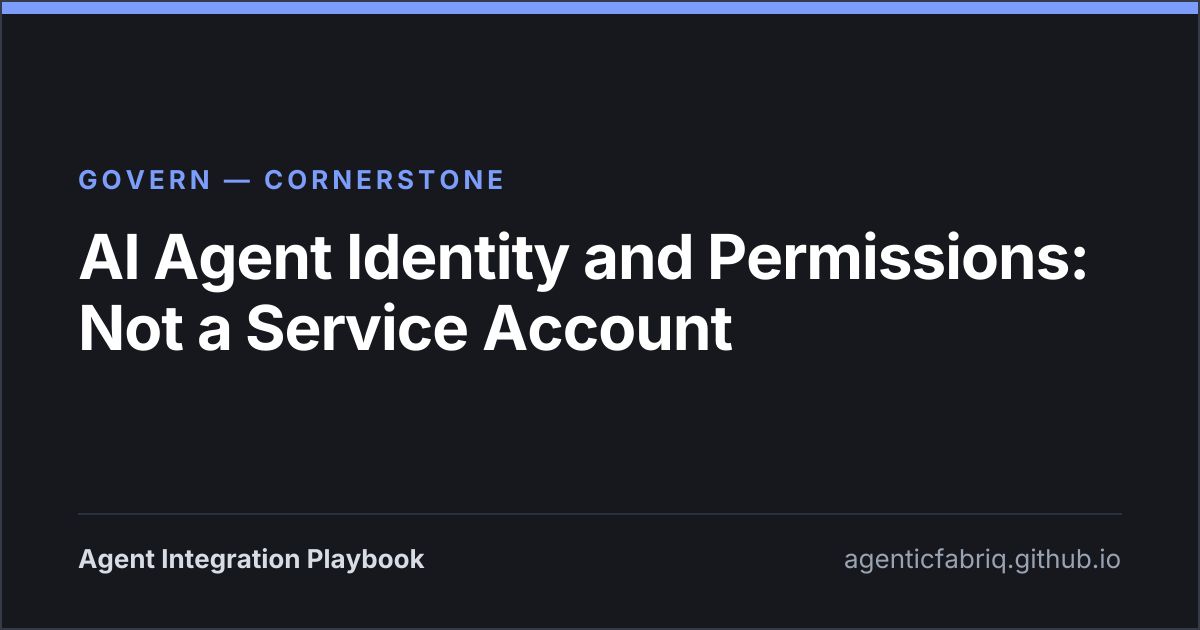
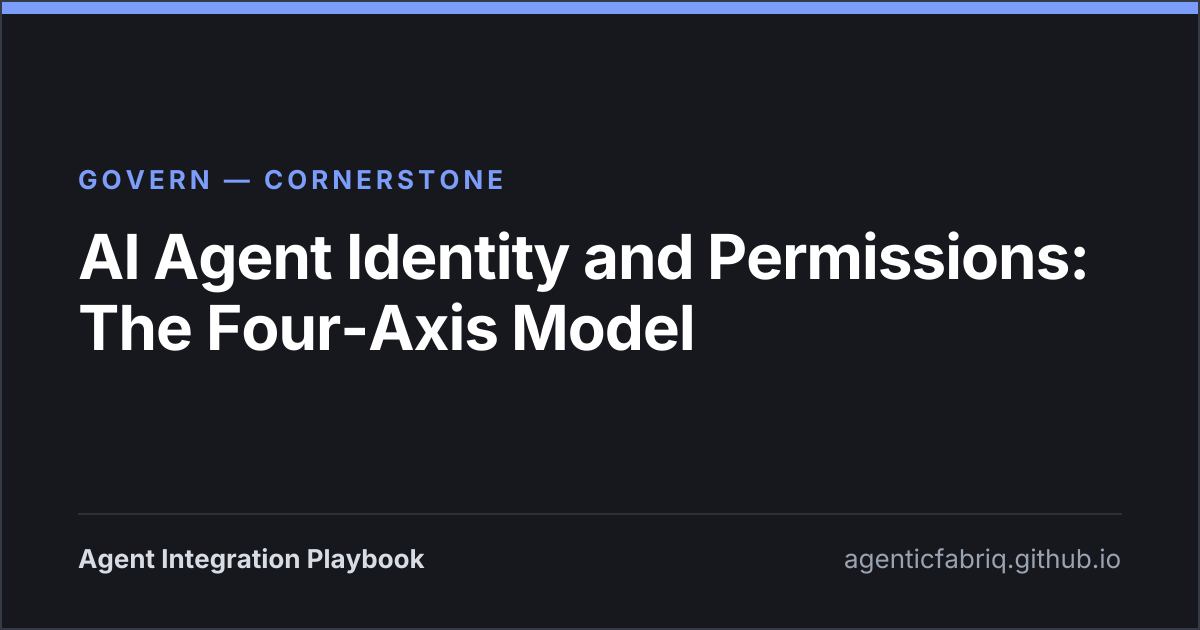
fix(seo): give the service-account comparison to /connect/ alone
Both cornerstones carried "Service Account" in the h1 and aimed at one intent:
/connect/ at 'ai agent service account vs user oauth', /govern/ at 'ai agent
identity vs service account'. The two research reports were written
independently and the collision check compared exact strings only.

/connect/ keeps it. It puts four named access patterns against one integration
and compares them on attribution, blast radius and cost, which is the
comparison the query asks for. /govern/ argues the comparison is a category
error and then spends the page on the agent x user x resource x action matrix,
call-time evaluation and revocation testing, so retarget it there. The
comparative framing stays in the body where it is the argument.

Changed region(s): [[0.0617, 0.4825, 0.6167, 0.573]]

diff --git a/README.md b/README.md
@@ -64,9 +64,9 @@ everywhere, rather than re-arguing them per provider.
 
 <!-- BEGIN GENERATED govern: edit src/content/guides/, then run `npm run readme` -->
 
-- [AI Agent Identity and Permissions: Not a Service Account](https://agenticfabriq.github.io/govern/) (cornerstone)
-  — Why an AI agent is neither a user nor a service account, how to model agent, user,
-  resource and action as a matrix, and how to test revocation.
+- [AI Agent Identity and Permissions: The Four-Axis Model](https://agenticfabriq.github.io/govern/) (cornerstone)
+  — An AI agent is its own kind of principal. Model it as agent, user, resource and action,
+  decide at call time, and prove revocation works one cell at a time.
 - [AI Agent Audit Log: Schema, Immutability, Retention](https://agenticfabriq.github.io/govern/audit/)
   — What belongs in an AI agent audit log, field by field: both principals, the policy
   decision, an append-only store, redaction, and how long to keep it.

diff --git a/src/content/guides/govern/index.md b/src/content/guides/govern/index.md
@@ -1,11 +1,12 @@
 ---
-title: "AI Agent Identity and Permissions: Not a Service Account"
-description: "Why an AI agent is neither a user nor a service account, how to model agent, user, resource and action as a matrix, and how to test revocation."
+title: "AI Agent Identity and Permissions: The Four-Axis Model"
+description: "An AI agent is its own kind of principal. Model it as agent, user, resource and action, decide at call time, and prove revocation works one cell at a time."
 pillar: govern
 updated: "2026-08-18"
 cornerstone: true
 keywords:
-  - "ai agent identity vs service account"
+  - "ai agent permission model"
+  - "ai agent identity and access management"
   - "ai agent permissions"
   - "how to revoke an ai agent's access"
   - "ai agent access control"
